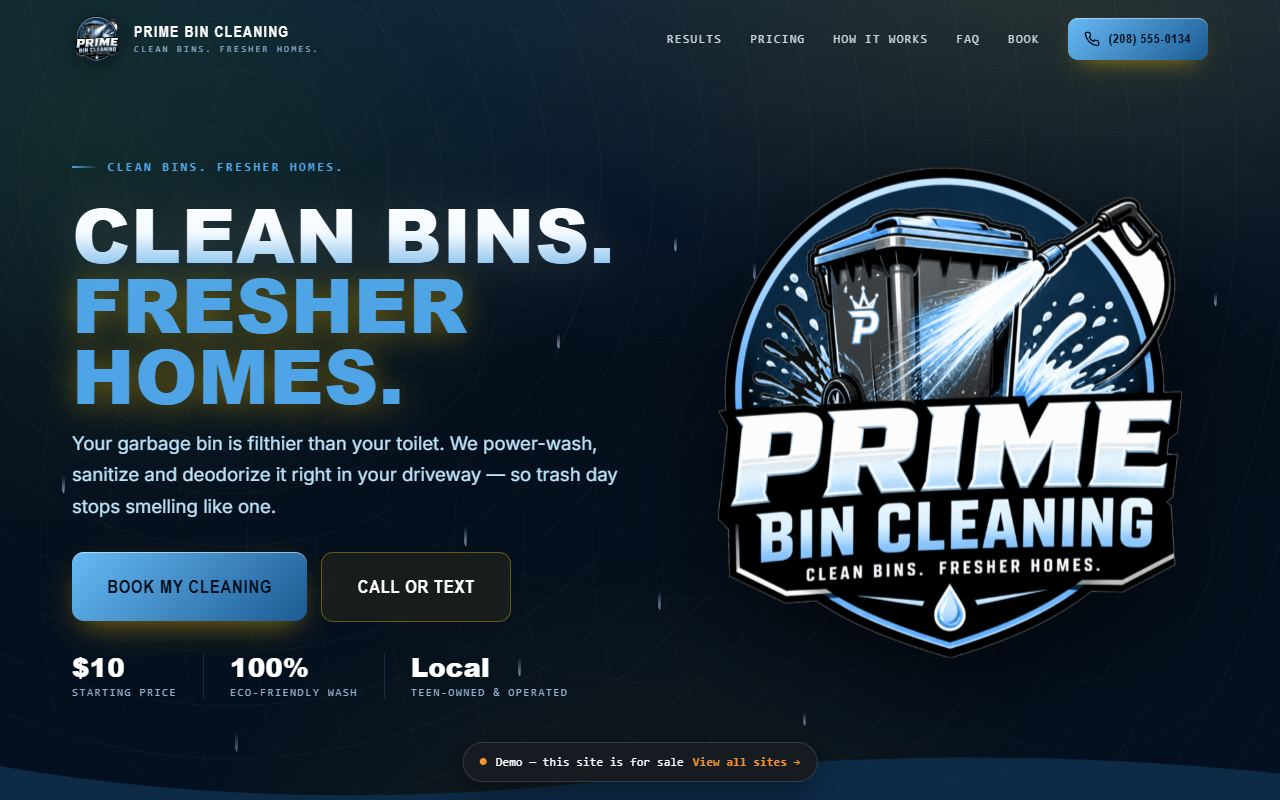
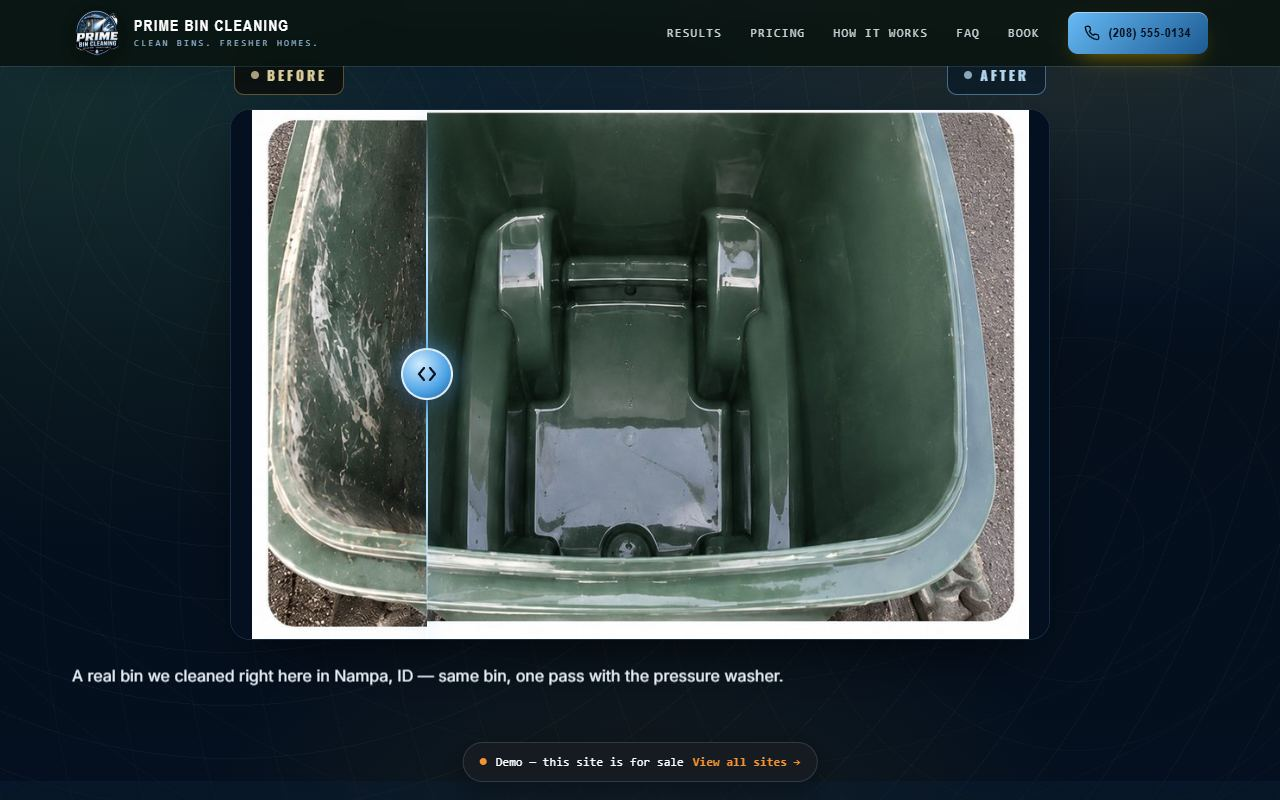
fix(shots): make hover frames actually show the interaction (Ruling R13)
Fix round 1 on task 3. Four of six hover frames were near-duplicates of
their rest frames: the click landed but the affected element lived below
the fold, so a fixed-viewport screenshot never saw it. PREPARE now reads
each niche's real markup/JS and: scrollIntoView the target, settle, engage
it, settle again, and leaves the page parked there for the shot.

  bin-cleaning: #ba is a div driven by mousedown/mousemove/mouseup + a
    --pos custom property (niche.js), not an <input type=range> as the
    old selector assumed -- simulate a real drag instead of setting .value
    on the wrong element.
  landscaping: click whichever #wheelTabs [data-season-tab] is NOT already
    aria-selected, so the frame lands on a different season.
  dog-walking: toggle #weekGrid [data-bday] buttons on. Each click re-renders
    weekGrid's innerHTML, so buttons must be re-queried live between clicks
    -- collecting all three nodes up front clicks stale/detached elements
    after the first.

child-care-hover is dropped: its hero effect is an ambient CSS twinkle with
no discrete state to engage, so no capture can produce a second frame that
differs from the first. 23 tool targets, 24 files.

diff --git a/tools/build-shots.js b/tools/build-shots.js
@@ -65,7 +65,10 @@ const TARGETS = [
   { group:'featured', name:'dj',                  url:'/sites/dj/pink/' },
   { group:'featured', name:'dj-hover',            url:'/sites/dj/pink/',       prepare:'wait' },
   { group:'featured', name:'child-care',          url:'/sites/child-care/' },
-  { group:'featured', name:'child-care-hover',    url:'/sites/child-care/',    prepare:'wait' },
+  // No child-care-hover (Ruling R13): its hero effect is an ambient CSS
+  // twinkle with no discrete state to engage, so no capture can produce a
+  // meaningfully distinct second frame. The landing-page task handles a
+  // card with no hover frame.
 
   // platforms — consignmentbiz already exists in assets/proof/; recapture all
   // three here so the group is self-consistent in size and quality.
@@ -85,23 +88,71 @@ const TARGETS = [
   { group:'work', name:'domvegz',          url:'https://domvegz.com' },
 ];
 
-/* Signature-interaction setup, run inside the page. Each returns only after
-   the interaction has visibly settled. Unknown keys just wait — a shot at
-   rest is a worse shot, never a wrong one. */
+/* Signature-interaction setup, run inside the page. Ruling R13: a hover
+   capture exists to show a DIFFERENT region of the page than the rest shot,
+   so each of these scrolls its real target into view, waits for the scroll
+   to settle, engages the interaction, waits for it to animate/re-render, and
+   leaves the page parked there for the screenshot. Selectors below were read
+   from each niche's actual sections.html/niche.js (see task-3 report) rather
+   than guessed — that is what produced near-duplicate "hover" frames the
+   first time. Unknown keys just wait — a shot at rest is a worse shot, never
+   a wrong one. */
 const PREPARE = {
-  slider: `(async()=>{const s=document.querySelector('[class*=ba-],[class*=slider] input,input[type=range]');
-           if(s){s.value=s.max?Math.round(s.max*0.55):55;s.dispatchEvent(new Event('input',{bubbles:true}));}
-           await new Promise(r=>setTimeout(r,600));})()`,
-  season: `(async()=>{const b=[...document.querySelectorAll('button,[role=tab]')]
-             .find(e=>/summer|fall|autumn/i.test(e.textContent));if(b)b.click();
-           await new Promise(r=>setTimeout(r,900));})()`,
-  picker: `(async()=>{const b=[...document.querySelectorAll('button,[role=tab],label')]
-             .find(e=>/20|30 ?yard|yd/i.test(e.textContent));if(b)b.click();
-           await new Promise(r=>setTimeout(r,700));})()`,
-  week:   `(async()=>{const d=[...document.querySelectorAll('button,[role=checkbox],label')]
-             .filter(e=>/mon|wed|fri/i.test(e.textContent)).slice(0,3);d.forEach(e=>e.click());
-           await new Promise(r=>setTimeout(r,700));})()`,
-  wait:   `new Promise(r=>setTimeout(r,2500))`,
+  /* bin-cleaning — the before/after slider is #ba, a div driven by
+     mousedown/mousemove/mouseup + a --pos CSS var (niche.js), NOT an
+     <input type=range>. Simulate a real drag toward the "before" side so
+     the reveal is unambiguous. */
+  slider: `(async()=>{
+    const ba = document.getElementById('ba');
+    if(!ba) return;
+    ba.scrollIntoView({block:'center'});
+    await new Promise(r=>setTimeout(r,500));
+    const r = ba.getBoundingClientRect();
+    const x = r.left + r.width * 0.24, y = r.top + r.height / 2;
+    ba.dispatchEvent(new MouseEvent('mousedown', {bubbles:true, clientX:x, clientY:y}));
+    window.dispatchEvent(new MouseEvent('mousemove', {bubbles:true, clientX:x, clientY:y}));
+    window.dispatchEvent(new MouseEvent('mouseup', {bubbles:true, clientX:x, clientY:y}));
+    await new Promise(r=>setTimeout(r,500));
+  })()`,
+  /* landscaping — the season wheel's tabs are #wheelTabs [data-season-tab],
+     one of which starts aria-selected (seasonForMonth). Click whichever tab
+     is NOT already selected so the frame shows a different season. */
+  season: `(async()=>{
+    const wheel = document.getElementById('wheel');
+    if(wheel) wheel.scrollIntoView({block:'center'});
+    await new Promise(r=>setTimeout(r,500));
+    const tabs = [...document.querySelectorAll('#wheelTabs [data-season-tab]')];
+    const current = tabs.find(t=>t.getAttribute('aria-selected')==='true');
+    const target = tabs.find(t=>t!==current) || tabs[0];
+    if(target) target.click();
+    await new Promise(r=>setTimeout(r,700));
+  })()`,
+  /* dumpster-rental — size picker. Already produced a meaningfully different
+     frame; kept, with an explicit scrollIntoView added for consistency. */
+  picker: `(async()=>{
+    const b=[...document.querySelectorAll('button,[role=tab],label')]
+      .find(e=>/20|30 ?yard|yd/i.test(e.textContent));
+    if(b){ b.scrollIntoView({block:'center'}); await new Promise(r=>setTimeout(r,400)); b.click(); }
+    await new Promise(r=>setTimeout(r,700));
+  })()`,
+  /* dog-walking — the week builder's day toggles are #weekGrid [data-bday].
+     Toggle three days on so the price panel leaves its empty state. Every
+     click calls renderBuilder(), which replaces #weekGrid's innerHTML — so
+     buttons queried before the first click go stale/detached immediately
+     after it. Re-query live from the DOM on each iteration instead of
+     collecting all three nodes up front. */
+  week: `(async()=>{
+    const grid = document.getElementById('weekGrid');
+    if(grid) grid.scrollIntoView({block:'center'});
+    await new Promise(r=>setTimeout(r,500));
+    for (let i = 0; i < 3; i++) {
+      const btn = document.querySelectorAll('#weekGrid [data-bday]')[i];
+      if (btn) btn.click();
+      await new Promise(r=>setTimeout(r,150));
+    }
+    await new Promise(r=>setTimeout(r,500));
+  })()`,
+  wait: `new Promise(r=>setTimeout(r,2500))`,
 };
 
 if (args.includes('--list')) {
